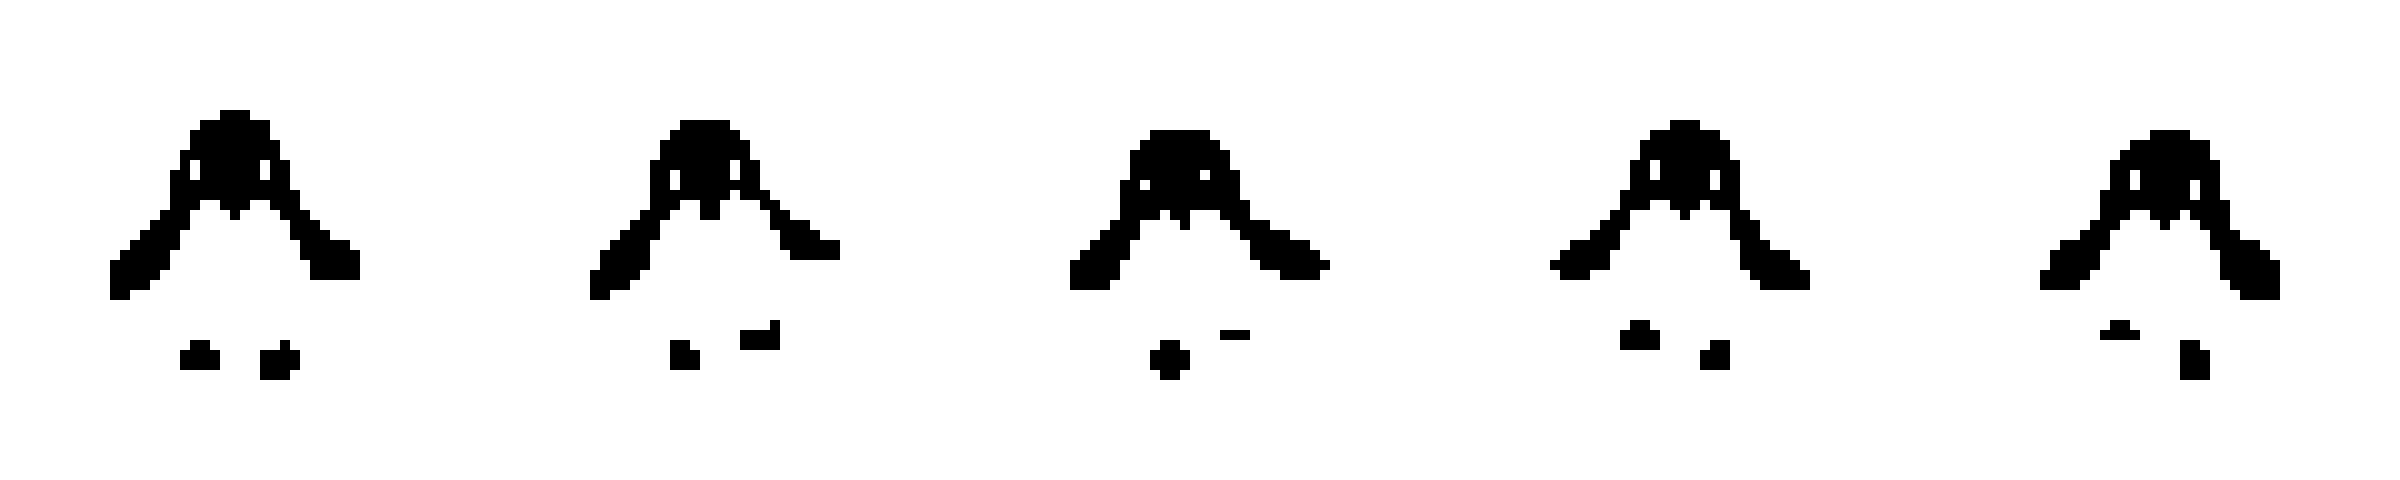
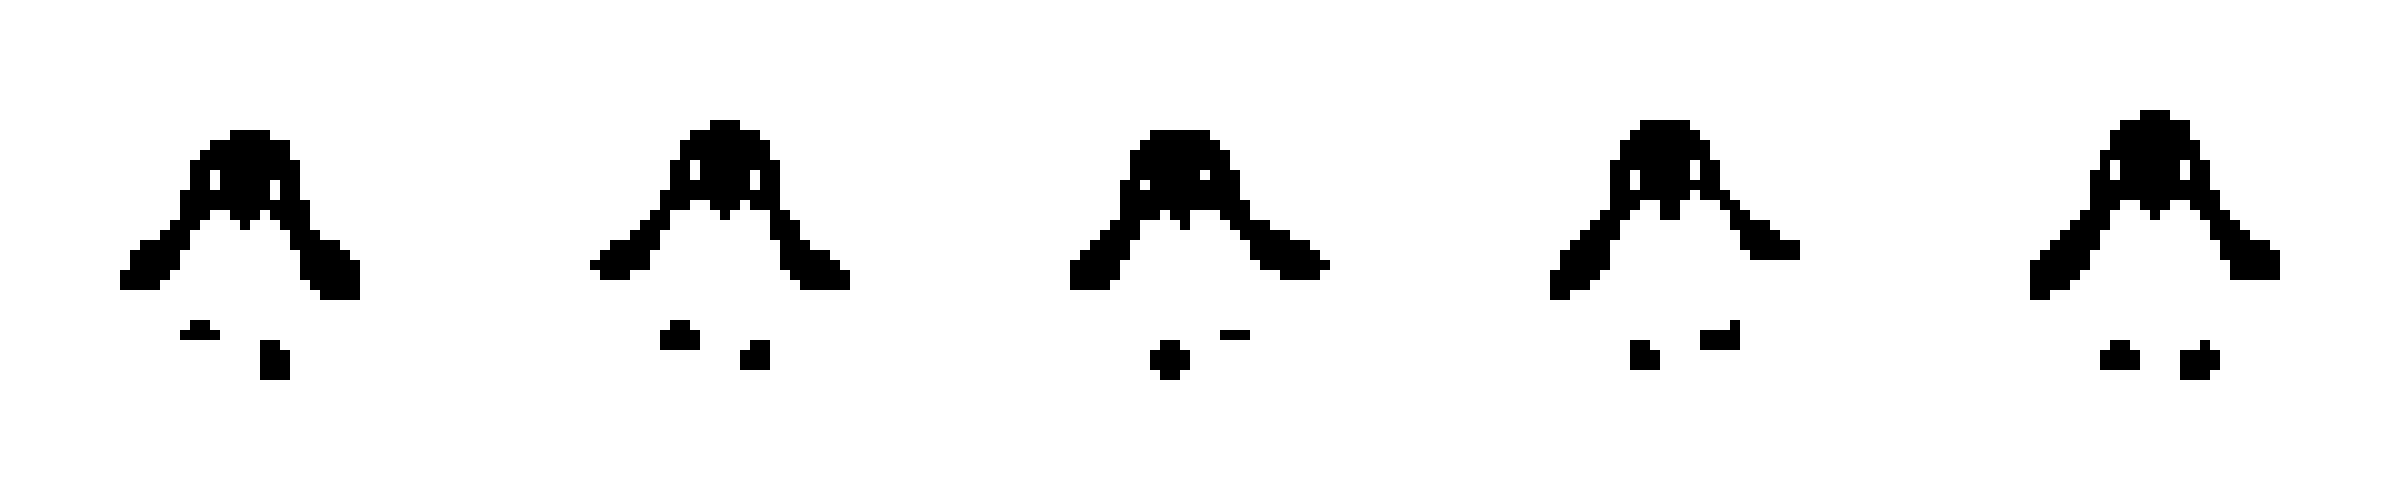
change reposition logic to translate

diff --git a/scripts/app.js b/scripts/app.js
@@ -6,18 +6,17 @@ function init() {
   const decode = arr => arr.split('').map(c=> !decodeRef[c] ? c : decodeRef[c]).join('')
 
   const penguinSvg = {
-    up: `d 22 11eAbBaBaEaBaAaAaAbAaExGnBuAaBnAkKnNnAuBxUaNuNnInAuAuKaNaNaNaNaNaIaUaUaNbN"/D 68 12jAaAaBaEaBbAbAaAbBiw6nExUnAxAaBkKuNnInAuAuKaUaNbNaUaIaUaNaN"/D 167 12eAbAaBaJaAaBbAaAaAaBW-6AnEnGkUaNuNuNuAaBxUaNuUnKiUaNbNbNaNaUaKaUaNbN"/D 115 13W6AaAaBaGaAbAbAeAaBnAxNnJnAnAkNnAkAaBnAuNnUaNkUnXnAxKaNbNaNaXaXaNaN"/D 215 13gAbBaGaEaAbAaAaGkNnEnBuGkXkNnAxNnNnKnAuAuKaNaNaNaNaNaNaKaKaNaNbN"/`,
-    dUp: `d 22 12eAbAaAaAaJaBbAaAaBaEaBiAnAnAnEkUnNxBuUkUnKkKaNaNaNaNaUaXaKaNbN"/D 69 12jAaAaEaBaBaAaAaAbAaAaExNnGnAnExNxAaBuAuKxUaKnNxUaNaNaUbUaXaKaUbN"/D 116 12jAaAeBnAaBaAaAbAbAbAaAaAnAxNuAaJnAnBuAuNiEkKkw-6nAxUaUbUbNaIaXaNaN"/D 167 13jAaAaAaw7aAaAaAaAaAaAaEiNuBnBuAaBxUnNnNuAkNuUnXaNiUaNeNaNaNaNaUaUaNaNaN"/D 216 13W6AaAaAaw8nAbAaBaAaGkNkAnBnEkUuNuNiNkw-6aUxUaNeNeNaNaNaUaNaNaN"/`,
-    side: `d 23 11eAeAaBaBeBnAkBaAaAbAaAaBaEkNnNnNnKnUnNnNnNkAuBnBnBnBnBnEnNnNnUnKaKaNaNaUaUaXaNaNbN"/D 69 12jAbAaAjBnAuAnEaAaAbAbAaEkNkUnKnNuNuAuAuBnAnw7aAaAbEkNnKuNnUaUnAxKaNaUbUaIaKaNbN"/D 117 12W6AaAaAaAeAaBxEbAaAeAaBiNuNnUnUW-6AnAnBnw6aBaAaAaBkUiNnUbNaKnAxKaNaNbNaUaw-6aNaNaN"/D 168 12gAbAaBaAaAeBxAnBaAbAaBaEkNnUnKnNnNnNxAnAnAnAnAnBnGnKnAxKaNaNaNaNaNaNaNaXaNaUbN"/D 216 12gAbAaBbAbBkAnEaAbAaAaAaBxNuXnUnNiAnAnAnAnAnAnEaBuNuUaNaNnAxUaNaNbNaNaNaNaNaKaUaNaN"/F 24 16aBnU"/F 71 16aBnU"/F 119 16aBnU"/F 168 16aBnU"/F 216 16aBnU"/F 24 20eAaAaAaBaEaGnAnAkAW-6NkUnNaUaUaUaUaUbN"/F 73 21bAbAaEaBaBnAnAuAuAuAkNnNnw-7aNaUbNbN"/F 118 21W6BaBaAaGnBuAuAiNnUnw-6aUaNaN"/F 168 21gAaAaAaEaGnBnAW-7NiIaUaNaNaNaNaN"/F 216 21jAaBaw7nAnAnAkNiNnUnKaNaNaNaNaNaN"/D 126 31bBxNbN"/D 76 32gBxU"/D 211 32aAnN"/D 163 33gBxU"/D 212 33eAkN"/D 19 34bAeBiK"/D 27 34gBnAkK"/D 170 34gGuNnNnU"/D 218 34eAaBkNnU"/`,
-    dDown: `d 23 12eAbAaAaGaGaAaAaAaAaEkNnUnKnUnNnAnNnNxAnAnAnGnBnAnEnNxUaUaUaNaNaNaUaXaUaNaNbN"/D 168 12eAbAaAaBaw6aAaBaAaAaBxNnKnKnNnNnAnNnNiAnAnBnBnBnGnNnUkKaNaNbNaNaNaUaUaUaNaNbN"/D 215 12jAbBaw7aBbBbBaBxNnKnKnNuNnNxAnAnAnAnBnGnGuNnKaKaNuAxNnNaNaNbNbNbNaNaUaUaNaNaN"/D 68 13W6AaAaAaBaEaAaAaAeAaBiNnNnUnNnNnAuNxAnAnJnBnAnAW-6KaNaNaNaNaNaNaIaKaNaN"/D 115 13jAbAaAnBaUaAaBaBeAeAaBW-6UnNnNnNuAkNnAuAnBnGnEnAuAkXaNaUaNaNaNnIaKaNbN"/F 21 16aBnU"/F 122 16aBnU"/F 215 16aBnU"/F 75 17aBnU"/F 167 17aAnN"/F 68 18aBnU"/F 114 18aBnU"/F 173 18aAnN"/F 22 20gAaAaNaAaBaEaBaAnBnAnAkAnAxNuAnNuNnXaNaUaXaNaNaN"/F 118 20aAeNbAaAaAaBaJnBuAnAnAuAxNkNnw-6aXaUaNbN"/F 165 20jAaAaNaAaAaEaw6nAnAkAiNiUnXaUaUaUaNaN"/F 215 20gAaAbAaEaw6nAnAn3XaXaUaNaNaNaN"/F 69 21gAbNaAaAaBaAaJnAuAnBuAxNnAnNuUnKaUaIaNaN"/D 77 32aAaBkUaN"/D 125 32eEkNnNaN"/D 160 32aAnN"/D 27 34eAaBxK"/D 163 34eAaBkNnU"/D 171 34eAaBkNnU"/D 211 34gBxU"/D 219 34bAbBnAkX"/D 20 35bAaBnAuX"/D 69 35aAbBuAuKaN"/D 116 35aAbAaAnAkX"/`,
-    down: `d 22 11eAbBaBaEaBaAaAaAbAaEiUnUnUnNnNuAnAnNnNuAnBnBnBnAnAuAuXaNaNaNaNaNaXaUaUaNbN"/D 68 12jAaAaBaEaAaAaAbAaAbBiNnUnUnNuNnAnBuUuAnAnBnEnAnAuAuKaUaNaNaNaNaIaUaNaN"/D 167 12eAbAaBaJaAaBaAbAaAaBiNnNnKnKuNnAnAnNnNuAuBnBnBuAkNnNaNaNbNaNaNaUaKaUaNbN"/D 115 13W6AaAaBaEaBbAbAbAaAaAnAxNuNnUnNnNnNkBnNnNnAuBnBnBnAxKaNaNaNaNaXaKaNaN"/D 215 13gAbBaGaEaAbAaAaGxNnNnKnUnNnNnAnAnNnNuAnAnBnBnAnAxUaUaNbNaNaKaKaNaNbN"/F 19 16aBnU"/F 26 16aBnU"/F 73 16aBnU"/F 165 16aBnU"/F 67 17aBnU"/F 120 17aAnN"/F 171 17aBnU"/F 213 17aBnU"/F 114 18aAnN"/F 219 18aBnU"/F 73 19aAbAaBaBaw6nAnAkAW-7NnNnUnKaKaUaNaNbBbUaN"/F 20 20bAaAaNaNbAaAaBaBaBaEnAnAnAnAW-7NuNnNnNnXaUaUaUaN"/F 165 20bAaAaNaNaAbEaEaw6nAxNkNxNnNnIaUaUbN"/F 116 21aAaAaUeAaAaAaBaw6nAxAW-6NnNnNnIaUaUbN"/F 213 21bAaAaNaNaAaAaBaEaJnAW-6NkNkNnXaUaUaNaN"/D 77 32aExUeN"/D 163 32bAaBxUaN"/D 211 32bAaAxNaN"/D 122 33eAkN"/D 19 34bAaBxUaN"/D 28 34aAaBnAkKbN"/D 67 34bAaBkK"/D 116 34bAaBnAuNnUaN"/D 171 34bEkUaN"/D 218 34bAaEkX"/`,
+    up: `d 214 11eAbBaBaEaBaAaAaAbAaExGnBuAaBnAkKnNnAuBxUaNuNnInAuAuKaNaNaNaNaNaIaUaUaNbN"/D 71 12eAbAaBaJaAaBbAaAaAaBW-6AnEnGkUaNuNuNuAaBxUaNuUnKiUaNbNbNaNaUaKaUaNbN"/D 164 12jAaAaBaEaBbAbAaAbBiw6nExUnAxAaBkKuNnInAuAuKaUaNbNaUaIaUaNaN"/D 23 13gAbBaGaEaAbAaAaGkNnEnBuGkXkNnAxNnNnKnAuAuKaNaNaNaNaNaNaKaKaNaNbN"/D 115 13W6AaAaBaGaAbAbAeAaBnAxNnJnAnAkNnAkAaBnAuNnUaNkUnXnAxKaNbNaNaXaXaNaN"/`,
+    dUp: `d 116 12jAaAeBnAaBaAaAbAbAbAaAaAnAxNuAaJnAnBuAuNiEkKkw-6nAxUaUbUbNaIaXaNaN"/D 165 12jAaAaEaBaBaAaAaAbAaAaExNnGnAnExNxAaBuAuKxUaKnNxUaNaNaUbUaXaKaUbN"/D 214 12eAbAaAaAaJaBbAaAaBaEaBiAnAnAnEkUnNxBuUkUnKkKaNaNaNaNaUaXaKaNbN"/D 24 13W6AaAaAaw8nAbAaBaAaGkNkAnBnEkUuNuNiNkw-6aUxUaNeNeNaNaNaUaNaNaN"/D 71 13jAaAaAaw7aAaAaAaAaAaAaEiNuBnBuAaBxUnNnNuAkNuUnXaNiUaNeNaNaNaNaUaUaNaNaN"/`,
+    side: `d 215 11eAeAaBaBeBnAkBaAaAbAaAaBaEkNnNnNnKnUnNnNnNkAuBnBnBnBnBnEnNnNnUnKaKaNaNaUaUaXaNaNbN"/D 24 12gAbAaBbAbBkAnEaAbAaAaAaBxNuXnUnNiAnAnAnAnAnAnEaBuNuUaNaNnAxUaNaNbNaNaNaNaNaKaUaNaN"/D 72 12gAbAaBaAaAeBxAnBaAbAaBaEkNnUnKnNnNnNxAnAnAnAnAnBnGnKnAxKaNaNaNaNaNaNaNaXaNaUbN"/D 117 12W6AaAaAaAeAaBxEbAaAeAaBiNuNnUnUW-6AnAnBnw6aBaAaAaBkUiNnUbNaKnAxKaNaNbNaUaw-6aNaNaN"/D 165 12jAbAaAjBnAuAnEaAaAbAbAaEkNkUnKnNuNuAuAuBnAnw7aAaAbEkNnKuNnUaUnAxKaNaUbUaIaKaNbN"/F 24 16aBnU"/F 72 16aBnU"/F 119 16aBnU"/F 167 16aBnU"/F 216 16aBnU"/F 216 20eAaAaAaBaEaGnAnAkAW-6NkUnNaUaUaUaUaUbN"/F 24 21jAaBaw7nAnAnAkNiNnUnKaNaNaNaNaNaN"/F 72 21gAaAaAaEaGnBnAW-7NiIaUaNaNaNaNaN"/F 118 21W6BaBaAaGnBuAuAiNnUnw-6aUaNaN"/F 169 21bAbAaEaBaBnAnAuAuAuAkNnNnw-7aNaUbNbN"/D 126 31bBxNbN"/D 19 32aAnN"/D 172 32gBxU"/D 20 33eAkN"/D 67 33gBxU"/D 26 34eAaBkNnU"/D 74 34gGuNnNnU"/D 211 34bAeBiK"/D 219 34gBnAkK"/`,
+    dDown: `d 23 12jAbBaw7aBbBbBaBxNnKnKnNuNnNxAnAnAnAnBnGnGuNnKaKaNuAxNnNaNaNbNbNbNaNaUaUaNaNaN"/D 72 12eAbAaAaBaw6aAaBaAaAaBxNnKnKnNnNnAnNnNiAnAnBnBnBnGnNnUkKaNaNbNaNaNaUaUaUaNaNbN"/D 215 12eAbAaAaGaGaAaAaAaAaEkNnUnKnUnNnAnNnNxAnAnAnGnBnAnEnNxUaUaUaNaNaNaUaXaUaNaNbN"/D 115 13jAbAaAnBaUaAaBaBeAeAaBW-6UnNnNnNuAkNnAuAnBnGnEnAuAkXaNaUaNaNaNnIaKaNbN"/D 164 13W6AaAaAaBaEaAaAaAeAaBiNnNnUnNnNnAuNxAnAnJnBnAnAW-6KaNaNaNaNaNaNaIaKaNaN"/F 23 16aBnU"/F 122 16aBnU"/F 213 16aBnU"/F 71 17aAnN"/F 171 17aBnU"/F 77 18aAnN"/F 114 18aBnU"/F 164 18aBnU"/F 23 20gAaAbAaEaw6nAnAn3XaXaUaNaNaNaN"/F 69 20jAaAaNaAaAaEaw6nAnAkAiNiUnXaUaUaUaNaN"/F 118 20aAeNbAaAaAaBaJnBuAnAnAuAxNkNnw-6aXaUaNbN"/F 214 20gAaAaNaAaBaEaBaAnBnAnAkAnAxNuAnNuNnXaNaUaXaNaNaN"/F 165 21gAbNaAaAaBaAaJnAuAnBuAxNnAnNuUnKaUaIaNaN"/D 64 32aAnN"/D 125 32eEkNnNaN"/D 173 32aAaBkUaN"/D 19 34gBxU"/D 27 34bAbBnAkX"/D 67 34eAaBkNnU"/D 75 34eAaBkNnU"/D 219 34eAaBxK"/D 116 35aAbAaAnAkX"/D 165 35aAbBuAuKaN"/D 212 35bAaBnAuX"/`,
+    down: `d 214 11eAbBaBaEaBaAaAaAbAaEiUnUnUnNnNuAnAnNnNuAnBnBnBnAnAuAuXaNaNaNaNaNaXaUaUaNbN"/D 71 12eAbAaBaJaAaBaAbAaAaBiNnNnKnKuNnAnAnNnNuAuBnBnBuAkNnNaNaNbNaNaNaUaKaUaNbN"/D 164 12jAaAaBaEaAaAaAbAaAbBiNnUnUnNuNnAnBuUuAnAnBnEnAnAuAuKaUaNaNaNaNaIaUaNaN"/D 23 13gAbBaGaEaAbAaAaGxNnNnKnUnNnNnAnAnNnNuAnAnBnBnAnAxUaUaNbNaNaKaKaNaNbN"/D 115 13W6AaAaBaEaBbAbAbAaAaAnAxNuNnUnNnNnNkBnNnNnAuBnBnBnAxKaNaNaNaNaXaKaNaN"/F 69 16aBnU"/F 169 16aBnU"/F 211 16aBnU"/F 218 16aBnU"/F 21 17aBnU"/F 75 17aBnU"/F 120 17aAnN"/F 163 17aBnU"/F 27 18aBnU"/F 114 18aAnN"/F 169 19aAbAaBaBaw6nAnAkAW-7NnNnUnKaKaUaNaNbBbUaN"/F 69 20bAaAaNaNaAbEaEaw6nAxNkNxNnNnIaUaUbN"/F 212 20bAaAaNaNbAaAaBaBaBaEnAnAnAnAW-7NuNnNnNnXaUaUaUaN"/F 21 21bAaAaNaNaAaAaBaEaJnAW-6NkNkNnXaUaUaNaN"/F 116 21aAaAaUeAaAaAaBaw6nAxAW-6NnNnNnIaUaUbN"/D 19 32bAaAxNaN"/D 67 32bAaBxUaN"/D 173 32aExUeN"/D 122 33eAkN"/D 26 34bAaEkX"/D 75 34bEkUaN"/D 116 34bAaBnAuNnUaN"/D 163 34bAaBkK"/D 211 34bAaBxUaN"/D 220 34aAaBnAkKbN"/`,
   }
 
   const starSvg = 'd 7 0bBaBaAjBnAnAnBaBaBkNnNuNuAuAnAkUaUaUnNnNnUjNaUaU"/'
 
   const body = document.querySelector('.wrapper')
   const animationFrames = {
-    // frame is counted right to left in the sprite sheet
     walk: [0, 1, 2, 1, 3, 4],
     stop: [0],
     celebrate: [2, 3, 4], //TODO add celebration frame
@@ -66,8 +65,7 @@ function init() {
   }
 
   const setMargin = (target, x, y) =>{
-    target.style.marginLeft = `${x}px`
-    target.style.marginTop = `${y}px`
+    target.style.transform = `translate(${x}px, ${y}px)`
   }
 
   const reverseDirectionConversions = () =>{
@@ -81,7 +79,7 @@ function init() {
   const animatePenguin = penguin =>{
     const { frame:i, animation, frameSpeed} = penguinData
     const penguinSprite = penguin.childNodes[1].childNodes[1]
-    setMargin(penguinSprite, `-${animationFrames[animation][i] * cellSize}`, `-${cellSize * directions[sprites[penguinData.direction]]}`)
+    setMargin(penguinSprite, `${(4 - animationFrames[animation][i]) * -cellSize}`, `-${cellSize * directions[sprites[penguinData.direction]]}`)
     penguinData.frame = i === animationFrames[animation].length - 1 ? 0 : i + 1
     penguinData.frameTimer = setTimeout(()=> animatePenguin(penguin), frameSpeed)
   }
@@ -101,12 +99,9 @@ function init() {
     frameSpeed,
     moveSpeed: 150,
     stop: true,
-    prev: [0, 0], 
     stepLeft: true,
-    pos: {
-      x: 0,
-      y: 0,
-    }
+    marginPos: { x: 0, y: 0 },
+    pos: { x: 0, y: 0 }
   }
   
   const radToDeg = rad => Math.round(rad * (180 / Math.PI))
@@ -131,10 +126,8 @@ function init() {
     penguinData.animation = animation
   }
 
-  const stopPenguin = (penguin, animation) =>{
+  const stopPenguin = animation =>{
     changeAnimation(animation)
-    const { offsetTop, offsetLeft } = penguin.style
-    setMargin(penguin, offsetLeft, offsetTop)
     penguinData.stop = true
   }
 
@@ -143,21 +136,18 @@ function init() {
     penguinData.stop = false
   }
 
-  const penguinMarginLeft = penguin => +penguin.style.marginLeft.replace('px', '')
-  const penguinMarginTop = penguin => +penguin.style.marginTop.replace('px', '')
 
   const checkBoundaryAndUpdatePenguinPos = (x, y, penguin, penguinData) =>{
     const lowerLimit = -40 // buffer from window edge
     const upperLimit = 40
 
     if (x > lowerLimit && x < (body.clientWidth - upperLimit)){
-      penguin.style.marginLeft = `${x}px`
-      penguinData.prev[0] = x
+      penguinData.marginPos.x = x
     } 
     if (y > lowerLimit && y < (body.clientHeight - upperLimit)){
-      penguin.style.marginTop = `${y}px`
-      penguinData.prev[1] = y
+      penguinData.marginPos.y = y
     }
+    setMargin(penguin, x, y)
   }
 
   const createMark = (penguin, angle) => {
@@ -192,17 +182,16 @@ function init() {
 
     createMark(penguin.childNodes[1].childNodes[3].childNodes[1], penguinDir)
     
-    let x = penguinMarginLeft(penguin)
-    let y = penguinMarginTop(penguin)
+    let { x, y } = penguinData.marginPos
     
     if (dir !== 'up' && dir !== 'down') x += (dir.includes('left')) ? -distance : distance
     if (dir !== 'left' && dir !== 'right') y += (dir.includes('up')) ? -distance : distance
 
     if (
-      x === penguinData.prev[0] && y === penguinData.prev[1] || 
+      x === penguinData.marginPos.x && y === penguinData.marginPos.y || 
       overlap(control.x, penguinData.pos.x) && overlap(control.y, penguinData.pos.y)
     ){
-      stopPenguin(penguin, 'celebrate')
+      stopPenguin('celebrate')
       body.removeChild(star)
       star = null
     } 
@@ -237,14 +226,14 @@ function init() {
 
     Object.assign(penguinData, {
       penguin: penguin,
-      prev: [penguin.style.marginLeft, penguin.style.marginTop], 
+      marginPos: { x, y },
       pos: {
         x: left + (width / 2),
         y: top + (height / 2),
       }
     })
     startPenguin(penguin)
-    stopPenguin(penguin, 'stop')
+    stopPenguin('stop')
   }
 
   createPenguin((body.clientWidth / 2) - 48, (body.clientHeight / 2) - 48)
